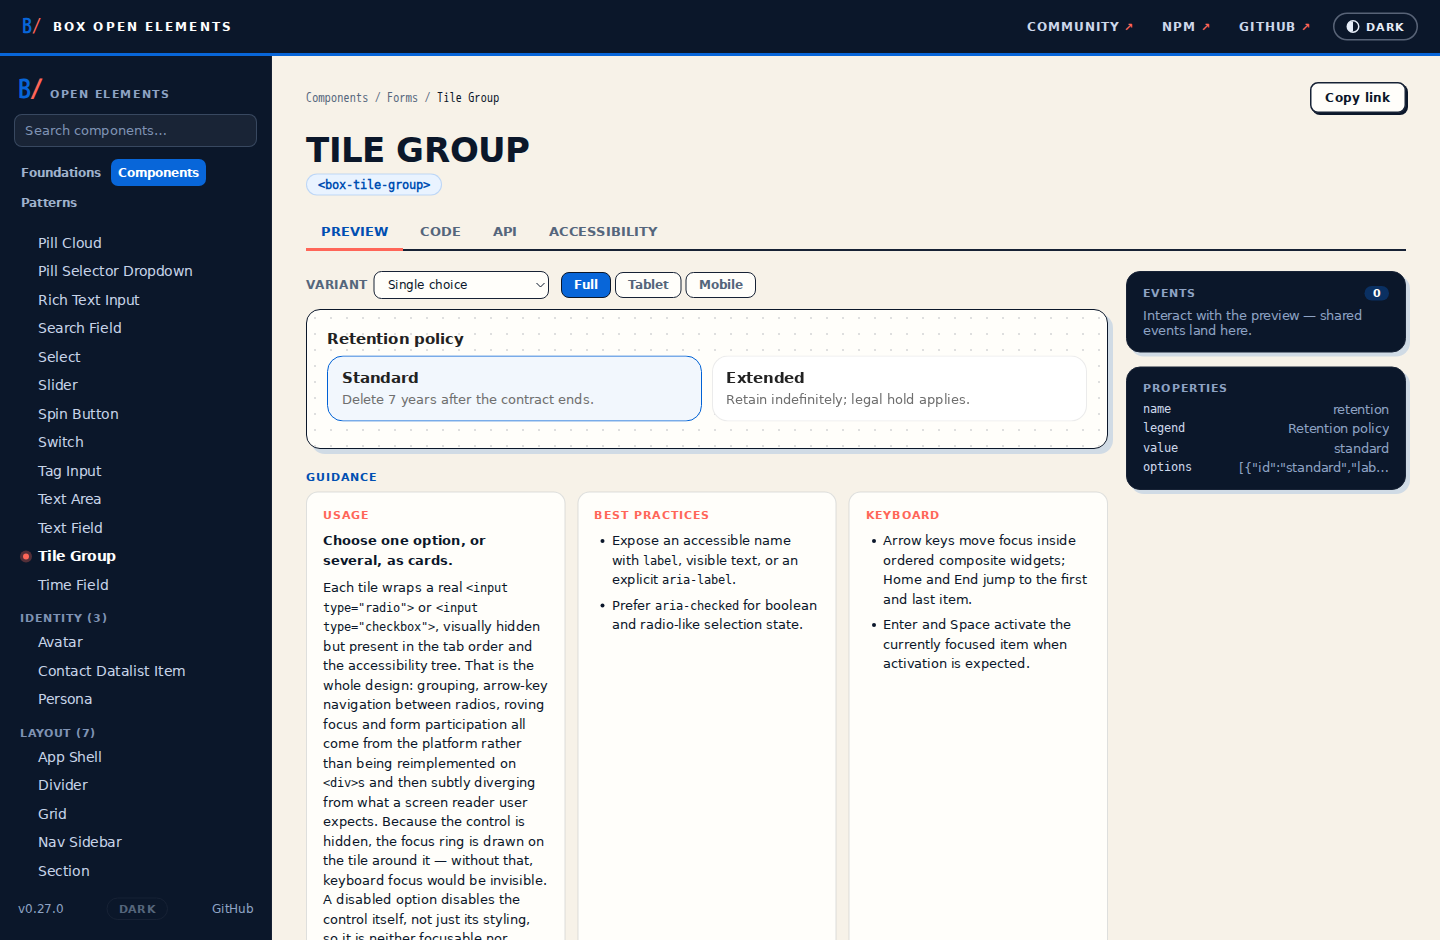
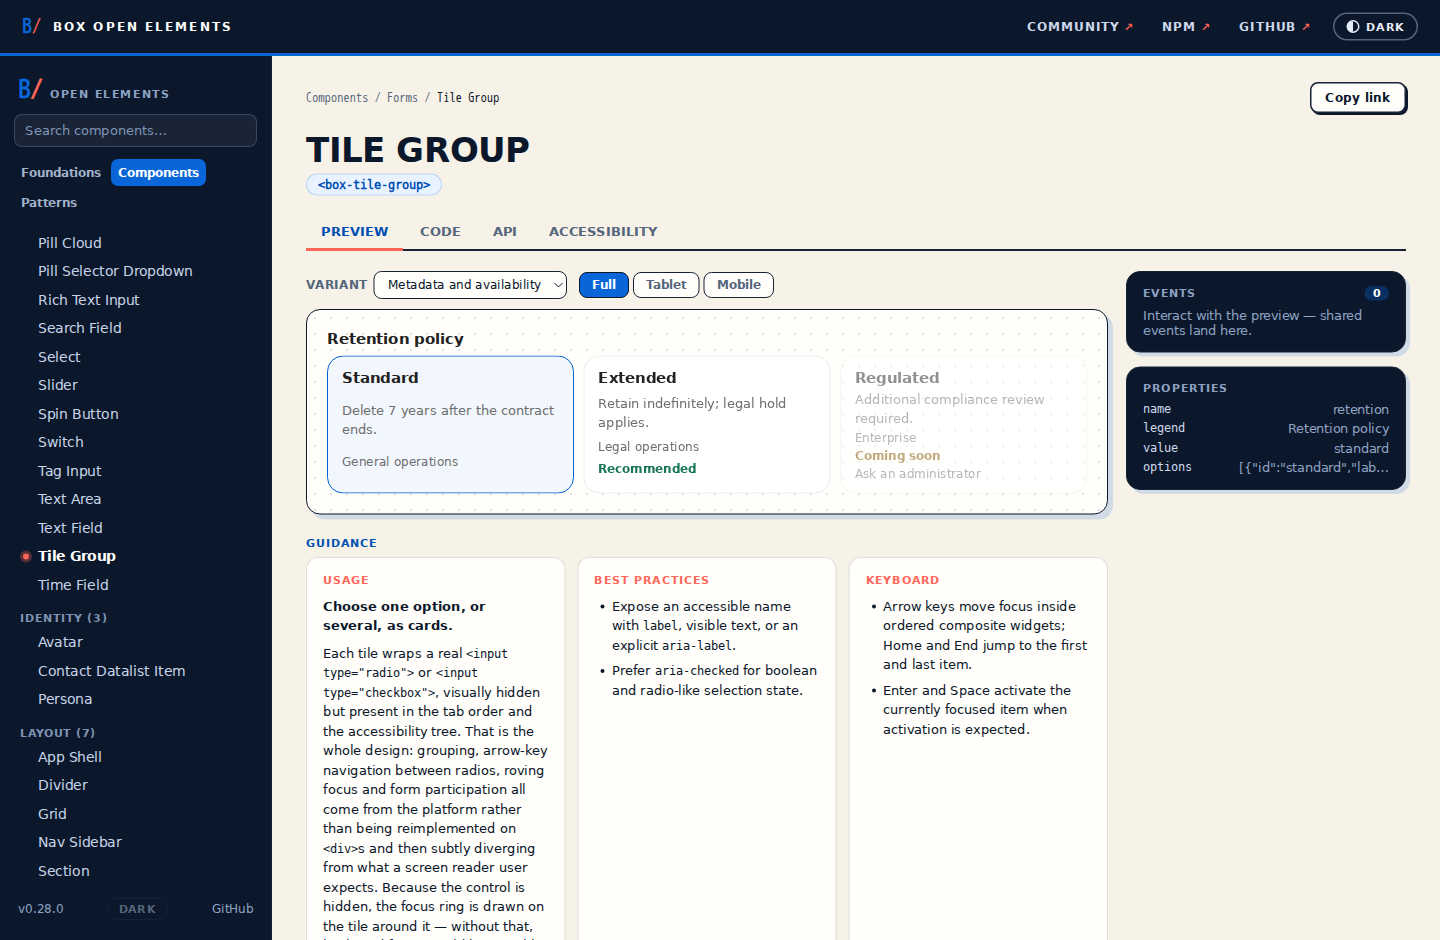
chore(release): prepare v0.28.0 with acceptance fixes

Changed region(s): [[0.2188, 0.3702, 0.7812, 1.0], [0.2812, 0.2777, 0.5312, 0.3394]]

diff --git a/docs-site/examples.ts b/docs-site/examples.ts
@@ -62,6 +62,8 @@ import { editorHtml, modelerHtml, setupCodeEditor, setupProcessModeler } from ".
 const icon = (name: keyof typeof boxIconography): string =>
   (boxIconography as Record<string, string>)[name] ?? "";
 
+const tileGroupMetadataHtml = `<box-tile-group name="retention" legend="Retention policy" value="standard" options='[{"id":"standard","label":"Standard","description":"Delete 7 years after the contract ends.","meta":"General operations"},{"id":"extended","label":"Extended","description":"Retain indefinitely; legal hold applies.","meta":"Legal operations","status":{"label":"Recommended","tone":"success"}},{"id":"regulated","label":"Regulated","description":"Additional compliance review required.","meta":"Enterprise","status":{"label":"Coming soon","tone":"warning"},"disabled":true,"disabledReason":"Ask an administrator"}]'></box-tile-group>`;
+
 /** Optional return value unsubscribes host listeners when the preview remounts. */
 type SetupFn = (root: HTMLElement) => void | (() => void);
 
@@ -819,7 +821,28 @@ export const examples: Record<string, ComponentExample> = {
     ],
     setupCode: `dialog.confirmBusy = true;\ndialog.confirmBusyLabel = "Waiting for setup";\nawait finishSetup();\ndialog.confirmBusy = false; // Confirm becomes enabled while the dialog stays open.`,
   },
-  drawer: { html: `<box-drawer heading="Details" open></box-drawer>` },
+  drawer: {
+    html: `<box-drawer heading="Connection details" description="Production Box" open><p>Review this connection before continuing.</p></box-drawer>`,
+    variants: [
+      {
+        name: "Header close",
+        html: `<box-drawer heading="Connection details" description="Production Box" open><p>Review this connection before continuing.</p></box-drawer>`,
+      },
+      {
+        name: "Footer Done",
+        html: `<box-drawer heading="Connection details" description="Production Box" hide-close-button open><p>Review this connection before continuing.</p><box-button slot="footer" label="Done" tone="primary" data-drawer-done></box-button></box-drawer>`,
+        setup: root => {
+          const drawer = root.querySelector("box-drawer");
+          const done = root.querySelector<HTMLElement>("[data-drawer-done]");
+          if (!drawer || !done) return;
+          const close = () => drawer.close();
+          done.addEventListener("click", close);
+          return () => done.removeEventListener("click", close);
+        },
+        note: "The footer provides the visible dismissal action. Escape and backdrop requests remain cancelable; the default drawer still shows its header Close button.",
+      },
+    ],
+  },
   "popover": purposeExamples["popover"]!,
   tooltip: { html: `<box-tooltip label="Copy link" open><box-button label="Share" tone="neutral"></box-button></box-tooltip>` },
   illustration: {
@@ -1632,7 +1655,11 @@ export const examples: Record<string, ComponentExample> = {
     html: `<box-code-block language="bash" code="bun add @unofficialbox/box-open-elements"></box-code-block>`,
   },
   "tile-group": {
-    html: `<box-tile-group name="retention" legend="Retention policy" value="standard" options='[{"id":"standard","label":"Standard","description":"Delete 7 years after the contract ends."},{"id":"extended","label":"Extended","description":"Retain indefinitely; legal hold applies."}]'></box-tile-group>`,
+    html: tileGroupMetadataHtml,
+    variants: [
+      { name: "Metadata and availability", html: tileGroupMetadataHtml },
+      { name: "Multiple choices", html: `<box-tile-group name="channels" legend="Notification channels" multiple options='[{"id":"email","label":"Email","description":"Receive an email summary."},{"id":"in-app","label":"In-app","description":"See updates in the workspace."}]'></box-tile-group>` },
+    ],
   },
   "formatted-date": {
     html: `<box-formatted-date value="2026-08-25T14:30:00Z" date-style="medium" time-style="short" time-zone="UTC" locale="en-GB"></box-formatted-date>`,

diff --git a/src/components/collections/resource-row.ts b/src/components/collections/resource-row.ts
@@ -64,7 +64,13 @@ export class ResourceRow extends BaseElement {
     this.selectEl.disabled = this.disabled;
     this.selectEl.setAttribute("aria-pressed", String(this.selected));
     this.selectEl.setAttribute("aria-label", this.label);
-    if (this.meta || this.status) this.selectEl.setAttribute("aria-description", [this.meta.replaceAll("\n", ", "), this.status].filter(Boolean).join("; "));
+    const slottedStatus = this.statusSlot.assignedNodes({ flatten: true }).map(node =>
+      node instanceof Element
+        ? node.getAttribute("aria-label") ?? node.getAttribute("label") ?? node.textContent ?? ""
+        : node.textContent ?? "",
+    ).map(value => value.trim()).filter(Boolean).join(" ");
+    const spokenStatus = this.status || slottedStatus;
+    if (this.meta || spokenStatus) this.selectEl.setAttribute("aria-description", [this.meta.replaceAll("\n", ", "), spokenStatus].filter(Boolean).join("; "));
     else this.selectEl.removeAttribute("aria-description");
   }
 }

diff --git a/test/components/collections/resource-row.test.ts b/test/components/collections/resource-row.test.ts
@@ -40,6 +40,18 @@ describe("box-resource-row", () => {
     expect(row.shadowRoot!.querySelector('[part="meta"]')!.textContent).toContain("Enterprise 12345");
     expect(row.shadowRoot!.querySelector('[part="status"]')!.textContent).toBe("Ready");
   });
+  it("describes a slotted status without requiring a duplicate status attribute", () => {
+    const row = mount();
+    row.removeAttribute("status");
+    const badge = document.createElement("span");
+    badge.slot = "status";
+    badge.setAttribute("aria-label", "Ready for deployment");
+    row.append(badge);
+    row.shadowRoot!.querySelector<HTMLSlotElement>('slot[name="status"]')!
+      .dispatchEvent(new Event("slotchange"));
+    expect(row.shadowRoot!.querySelector("button")!.getAttribute("aria-description"))
+      .toContain("Ready for deployment");
+  });
   it("defines a narrow-width stacking rule", () => {
     expect(rowStyle(mount())).toContain("@container (max-width: 320px)");
   });

diff --git a/test/components/overlays/drawer.test.ts b/test/components/overlays/drawer.test.ts
@@ -40,6 +40,9 @@ describe("Drawer", () => {
   });
 
   it("hides the header control without disabling Escape or cancelable dismissal", async () => {
+    const opener = document.createElement("button");
+    document.body.append(opener);
+    opener.focus();
     const element = new Drawer();
     element.hideCloseButton = true;
     document.body.append(element);
@@ -54,6 +57,11 @@ describe("Drawer", () => {
     drawer.dispatchEvent(new KeyboardEvent("keydown", { key: "Escape", bubbles: true }));
     expect(guard).toHaveBeenCalledOnce();
     expect(element.open).toBe(true);
+    element.removeEventListener("dismiss", guard);
+    drawer.dispatchEvent(new KeyboardEvent("keydown", { key: "Escape", bubbles: true }));
+    await Promise.resolve();
+    expect(element.open).toBe(false);
+    expect(document.activeElement).toBe(opener);
   });
 
   it("emits dismiss and open-changed when closed from the button", () => {

diff --git a/README.md b/README.md
@@ -12,7 +12,7 @@
 
 Browse the full catalog on the **[live docs site](https://unofficialbox.github.io/box-open-elements)** — live previews, an events/properties inspector, per-framework code snippets (React / Angular / Vue / Svelte / HTML), and the foundations pages.
 
-The library is organized around three layers (see [taxonomy](https://github.com/unofficialbox/box-open-elements/blob/v0.27.0/docs/taxonomy.md) for the canonical model):
+The library is organized around three layers (see [taxonomy](https://github.com/unofficialbox/box-open-elements/blob/v0.28.0/docs/taxonomy.md) for the canonical model):
 
 - **Foundations** — design decisions as data: tokens, color, typography, iconography, accessibility, theming
 - **Components** — accessible Web Components for single controls, organized by category
@@ -77,7 +77,7 @@ selection.toggleSelection("1");
 - optimized component entrypoints: `@unofficialbox/box-open-elements/<name>`
 - patterns: `@unofficialbox/box-open-elements/patterns/<area>` and `@unofficialbox/box-open-elements/patterns/<area>/<module>`
 
-See the versioned [API guidelines](https://github.com/unofficialbox/box-open-elements/blob/v0.27.0/docs/api-guidelines.md).
+See the versioned [API guidelines](https://github.com/unofficialbox/box-open-elements/blob/v0.28.0/docs/api-guidelines.md).
 
 ## Developing
 
@@ -91,17 +91,17 @@ bun run docs     # build + serve the docs site at http://localhost:4600
 
 ## Documentation
 
-The versioned docs index is at [docs/README.md](https://github.com/unofficialbox/box-open-elements/blob/v0.27.0/docs/README.md). The most important entries:
+The versioned docs index is at [docs/README.md](https://github.com/unofficialbox/box-open-elements/blob/v0.28.0/docs/README.md). The most important entries:
 
-- [Taxonomy](https://github.com/unofficialbox/box-open-elements/blob/v0.27.0/docs/taxonomy.md)
-- [Architecture](https://github.com/unofficialbox/box-open-elements/blob/v0.27.0/docs/architecture.md)
-- [API Guidelines](https://github.com/unofficialbox/box-open-elements/blob/v0.27.0/docs/api-guidelines.md)
-- [Components catalog](https://github.com/unofficialbox/box-open-elements/blob/v0.27.0/docs/components/catalog.md) and [patterns catalog](https://github.com/unofficialbox/box-open-elements/blob/v0.27.0/docs/patterns/catalog.md)
-- [Using with React, Angular, Vue, and Svelte](https://github.com/unofficialbox/box-open-elements/blob/v0.27.0/docs/integration/frameworks.md)
-- [Design Tokens](https://github.com/unofficialbox/box-open-elements/blob/v0.27.0/docs/foundations/tokens.md)
-- [Content Explorer](https://github.com/unofficialbox/box-open-elements/blob/v0.27.0/docs/patterns/content-explorer.md)
-- [Box Server Integration](https://github.com/unofficialbox/box-open-elements/blob/v0.27.0/docs/integration/box-server.md)
-- [Agent UI guidelines](https://github.com/unofficialbox/box-open-elements/blob/v0.27.0/docs/patterns/agent-ui-guidelines.md), [building blocks](https://github.com/unofficialbox/box-open-elements/blob/v0.27.0/docs/patterns/agent-ui.md), and [motion](https://github.com/unofficialbox/box-open-elements/blob/v0.27.0/docs/foundations/motion.md)
+- [Taxonomy](https://github.com/unofficialbox/box-open-elements/blob/v0.28.0/docs/taxonomy.md)
+- [Architecture](https://github.com/unofficialbox/box-open-elements/blob/v0.28.0/docs/architecture.md)
+- [API Guidelines](https://github.com/unofficialbox/box-open-elements/blob/v0.28.0/docs/api-guidelines.md)
+- [Components catalog](https://github.com/unofficialbox/box-open-elements/blob/v0.28.0/docs/components/catalog.md) and [patterns catalog](https://github.com/unofficialbox/box-open-elements/blob/v0.28.0/docs/patterns/catalog.md)
+- [Using with React, Angular, Vue, and Svelte](https://github.com/unofficialbox/box-open-elements/blob/v0.28.0/docs/integration/frameworks.md)
+- [Design Tokens](https://github.com/unofficialbox/box-open-elements/blob/v0.28.0/docs/foundations/tokens.md)
+- [Content Explorer](https://github.com/unofficialbox/box-open-elements/blob/v0.28.0/docs/patterns/content-explorer.md)
+- [Box Server Integration](https://github.com/unofficialbox/box-open-elements/blob/v0.28.0/docs/integration/box-server.md)
+- [Agent UI guidelines](https://github.com/unofficialbox/box-open-elements/blob/v0.28.0/docs/patterns/agent-ui-guidelines.md), [building blocks](https://github.com/unofficialbox/box-open-elements/blob/v0.28.0/docs/patterns/agent-ui.md), and [motion](https://github.com/unofficialbox/box-open-elements/blob/v0.28.0/docs/foundations/motion.md)
 
 ## Contributing
 

diff --git a/docs/components/drawer.md b/docs/components/drawer.md
@@ -1,0 +1,41 @@
+# Drawer dismissal
+
+`hide-close-button` removes only the built-in header Close control. Keep a
+visible, keyboard-operable footer action so the drawer is still dismissible.
+The default drawer continues to show its header Close button.
+
+```html
+<box-drawer id="connection-details" heading="Connection details" hide-close-button>
+  <p>Review the Box connection before continuing.</p>
+  <box-button slot="footer" label="Done" tone="primary" id="details-done"></box-button>
+</box-drawer>
+<script type="module">
+  import "@unofficialbox/box-open-elements/drawer";
+  import "@unofficialbox/box-open-elements/button";
+  const drawer = document.querySelector("#connection-details");
+  document.querySelector("#details-done")?.addEventListener("click", () => drawer.close());
+  drawer.show();
+</script>
+```
+
+```tsx
+import { useState } from "react";
+import { Button, Drawer } from "@unofficialbox/box-open-elements-react";
+
+function ConnectionDetails() {
+  const [open, setOpen] = useState(true);
+  return <Drawer open={open} heading="Connection details" hideCloseButton
+    onOpenChanged={event => setOpen(event.detail.open)}>
+    <p>Review the Box connection before continuing.</p>
+    <Button slot="footer" label="Done" tone="primary" onClick={() => setOpen(false)} />
+  </Drawer>;
+}
+```
+
+Escape and backdrop activation still emit the cancelable `dismiss` event with
+`source: "escape"` or `"backdrop"`. Call `preventDefault()` there to keep the
+drawer open, for example while confirming unsaved changes. Programmatic
+`close()` bypasses that guard because the host chose to close it. Focus returns
+to the previously focused control after closing; when the header button is
+hidden, initial focus goes to the drawer surface. The host can then move focus
+to its preferred control.

diff --git a/docs/audits/open-issues-2026-10-08.md b/docs/audits/open-issues-2026-10-08.md
@@ -27,3 +27,22 @@ that an issue should be closed before visual/consumer acceptance.
 - The modeler’s host schema, read-back conversion and persistence remain host
   responsibilities. Closing #321–331 should follow reference comparison and
   Riptide adoption, not the presence of matching API names alone.
+
+## Release acceptance follow-up
+
+- #354 now derives the selection button's spoken status from a slotted badge
+  when the host omits the plain `status` attribute. #355 now has a working
+  footer-only Drawer example for native and React hosts, including a focus
+  restoration test. #358 now documents category metadata and unavailable
+  choices in both the catalog and live preview.
+- #347–363 are candidates for closure after the 0.28.0 packages are confirmed
+  on npm. #346 remains open until Riptide replaces its local Code view editor
+  and accepts the result; the public API alone does not meet that issue's stated
+  adoption outcome.
+- #320's requested `model.validate` precedence exists in source and tests; it
+  is independent of the remaining Diagram parity work. #321–331 still require
+  Riptide-owned acceptance. A local light-theme comparison at 1440 and 390
+  confirmed matching canvas, palette and bottom-sheet anatomy and exercised
+  mobile Add/Details drawers. It did not cover all reference interactions,
+  dark-theme parity, axe, or host replacement of the existing iframe. Do not
+  close those issues on this evidence.

diff --git a/docs/components/tile-group.md b/docs/components/tile-group.md
@@ -1,0 +1,33 @@
+# Tile group choices
+
+`box-tile-group` uses native radios (or checkboxes with `multiple`). Keep the
+primary `label` short; `description`, `meta` and `status` add context without
+replacing the option's accessible name. For unavailable choices, include both
+`disabled: true` and a `disabledReason` that explains what would enable them.
+
+```html
+<box-tile-group name="solution" legend="Choose a solution"></box-tile-group>
+<script type="module">
+  import "@unofficialbox/box-open-elements/tile-group";
+  const group = document.querySelector("box-tile-group");
+  group.options = [
+    {
+      id: "clm", label: "Contract workflows",
+      description: "Manage contracts across Box and Salesforce.",
+      meta: "Legal operations",
+      status: { label: "Available", tone: "success" },
+    },
+    {
+      id: "regulated", label: "Regulated workflows",
+      description: "Additional compliance review required.",
+      meta: "Enterprise", status: { label: "Coming soon", tone: "warning" },
+      disabled: true, disabledReason: "Ask an administrator",
+    },
+  ];
+</script>
+```
+
+The control's accessible name remains its label; description, metadata,
+status and disabled reason are linked with `aria-describedby`. Disabled
+choices remain visible and expose their reason, but cannot be selected. Long
+metadata wraps on narrow screens rather than truncating the label.

diff --git a/CHANGELOG.md b/CHANGELOG.md
@@ -15,6 +15,28 @@ are kept as written.
 
 ## Unreleased
 
+## 0.28.0 — 2026-10-08
+
+### Component and pattern enhancements
+
+- Add host-configurable Code Editor current-line, wrapping, embedded chrome and
+  fixed-height behavior; Text Area focus forwarding; context-specific Button
+  and password-reveal names; and a compact Progress Steps rail.
+- Improve Number Input clamping feedback, Text Field reveal target size, Form
+  Wizard focus and errors, Wizard Summary wrapping, and Tile Group metadata,
+  status and unavailable-choice descriptions.
+- Add selectable Resource Row, Verdict Banner and dry/live Mode Indicator;
+  show per-node live figures in Flow Builder. Resource Row now describes a
+  slotted status badge without a duplicate status attribute.
+- Add Dialog disabled/busy confirmation and Drawer footer-only dismissal,
+  with native and React examples. Preserve the Nav Sidebar toggle when
+  collapsed and avoid nested navigation landmarks in App Shell.
+- Ship React, Angular, Vue and Svelte adapters in lockstep at 0.28.0.
+
+Process Modeler reference-parity issues #321–331 remain open for Riptide-owned
+side-by-side acceptance and adoption; this release does not claim those are
+complete.
+
 ## 0.27.0 — 2026-10-06
 
 ### Component and adapter improvements

diff --git a/docs/components/catalog.md b/docs/components/catalog.md
@@ -134,6 +134,8 @@ the exact value in a `<time datetime>` beside the human-readable text.
 - `text-area` — **built**
 - `text-field` — **built**
 - `tile-group` — **built** (selectable cards over real radios/checkboxes)
+
+See [tile group choices](./tile-group.md) for metadata, availability and disabled reasons.
 - `time-field` — **built**
 
 ### Identity
@@ -163,6 +165,8 @@ the exact value in a `<time datetime>` beside the human-readable text.
 
 See [dialog confirmation states](./dialog.md) for disabled and busy actions.
 - `drawer` — **built**
+
+See [drawer dismissal](./drawer.md) for footer-only actions and dismissal policy.
 - `popover` — **built**
 - `tooltip` — **built**
 

diff --git a/docs/components/resource-row.md b/docs/components/resource-row.md
@@ -28,4 +28,5 @@ visual emphasis, not a second keyboard-focus model. At container widths below
 
 The `status` text attribute is a non-interactive descriptor. A slotted status
 badge is optional; if used, the component suppresses the duplicate plain-text
-status while retaining the descriptor on the selection button.
+status. The selection button describes either the `status` attribute or the
+slotted badge's `aria-label`, `label`, or text, so hosts need not duplicate it.
